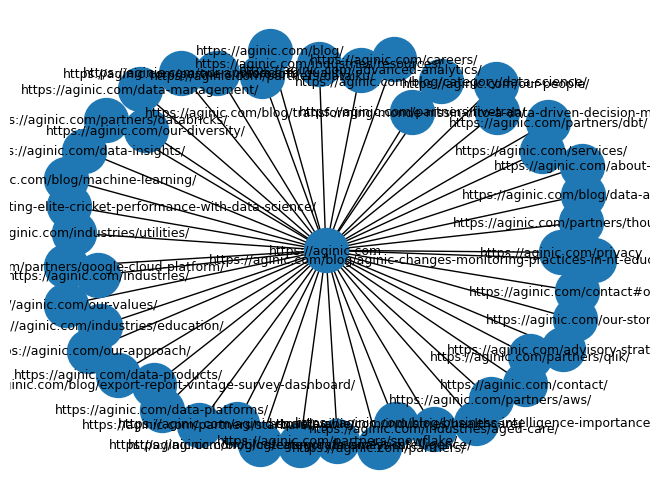
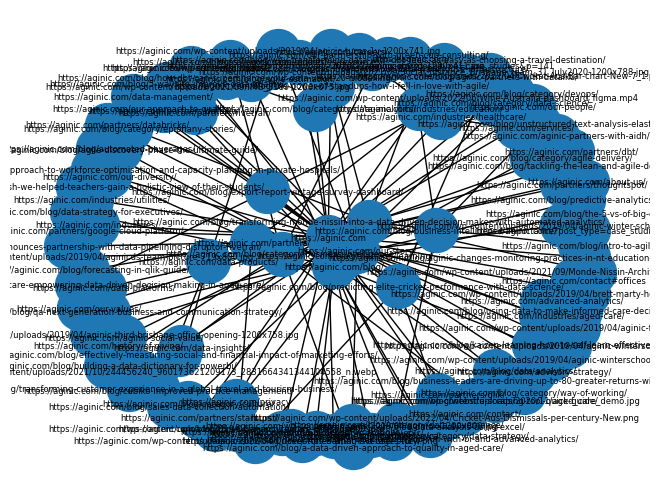
Adjust nodes to be part of dict & iterate through

diff --git a/content-mindmap.py b/content-mindmap.py
@@ -11,29 +11,40 @@ class WebsiteContentMap:
     """
     def __init__(self, url):
         self.url = url
-        self.nodes = []
+        self.nodes = {}
         self.create_nodes()
 
     def get_url(self):
         return self.url
 
-    def get_nodes(self) -> list:
+    def get_nodes(self) -> dict:
         return self.nodes
 
-    def set_nodes(self, nodes: list) -> None:
+    def set_nodes(self, nodes: dict) -> None:
         self.nodes = nodes
 
     def create_nodes(self):
         url = self.get_url()
-        links = []
+        links = {}
         r = requests.get(url)
         print(f'Getting links from {url}...')
         soup = BeautifulSoup(r.content, 'html.parser')
         for link in soup.find_all('a'):
             href = link.get('href')
             if href is not None and urlparse(href).netloc == urlparse(url).netloc:
-                links.append(href)
+                links[href] = self.get_links(href)
         self.set_nodes(links)
+
+    def get_links(self, url):
+        links = []
+        r = requests.get(url)
+        print(f'Getting links from {url}...')
+        soup = BeautifulSoup(r.content, 'html.parser')
+        for link in soup.find_all('a'):
+            href = link.get('href')
+            if href is not None and urlparse(href).netloc == urlparse(urlparse(url).geturl()).netloc:
+                links.append(href)
+        return links
 
     def create_mind_map(self):
         g = nx.DiGraph()
@@ -43,16 +54,17 @@ class WebsiteContentMap:
         queue = [root_url]
         while queue:
             current_url = queue.pop(0)
-            for link in self.get_nodes():
+            for link in self.get_nodes().get(current_url, []):
                 if link not in visited:
                     visited.add(link)
                     queue.append(link)
                     g.add_node(link)
                     g.add_edge(current_url, link)
         pos = nx.spring_layout(g, seed=42)
-        nx.draw(g, pos, with_labels=True, node_size=1000, font_size=9, arrows=False)
+        nx.draw(g, pos, with_labels=True, node_size=1000, font_size=6, arrows=False)
         plt.savefig('mindmap.png', bbox_inches='tight')
 
 
 aginic = WebsiteContentMap('https://aginic.com/')
 aginic.create_mind_map()
+
